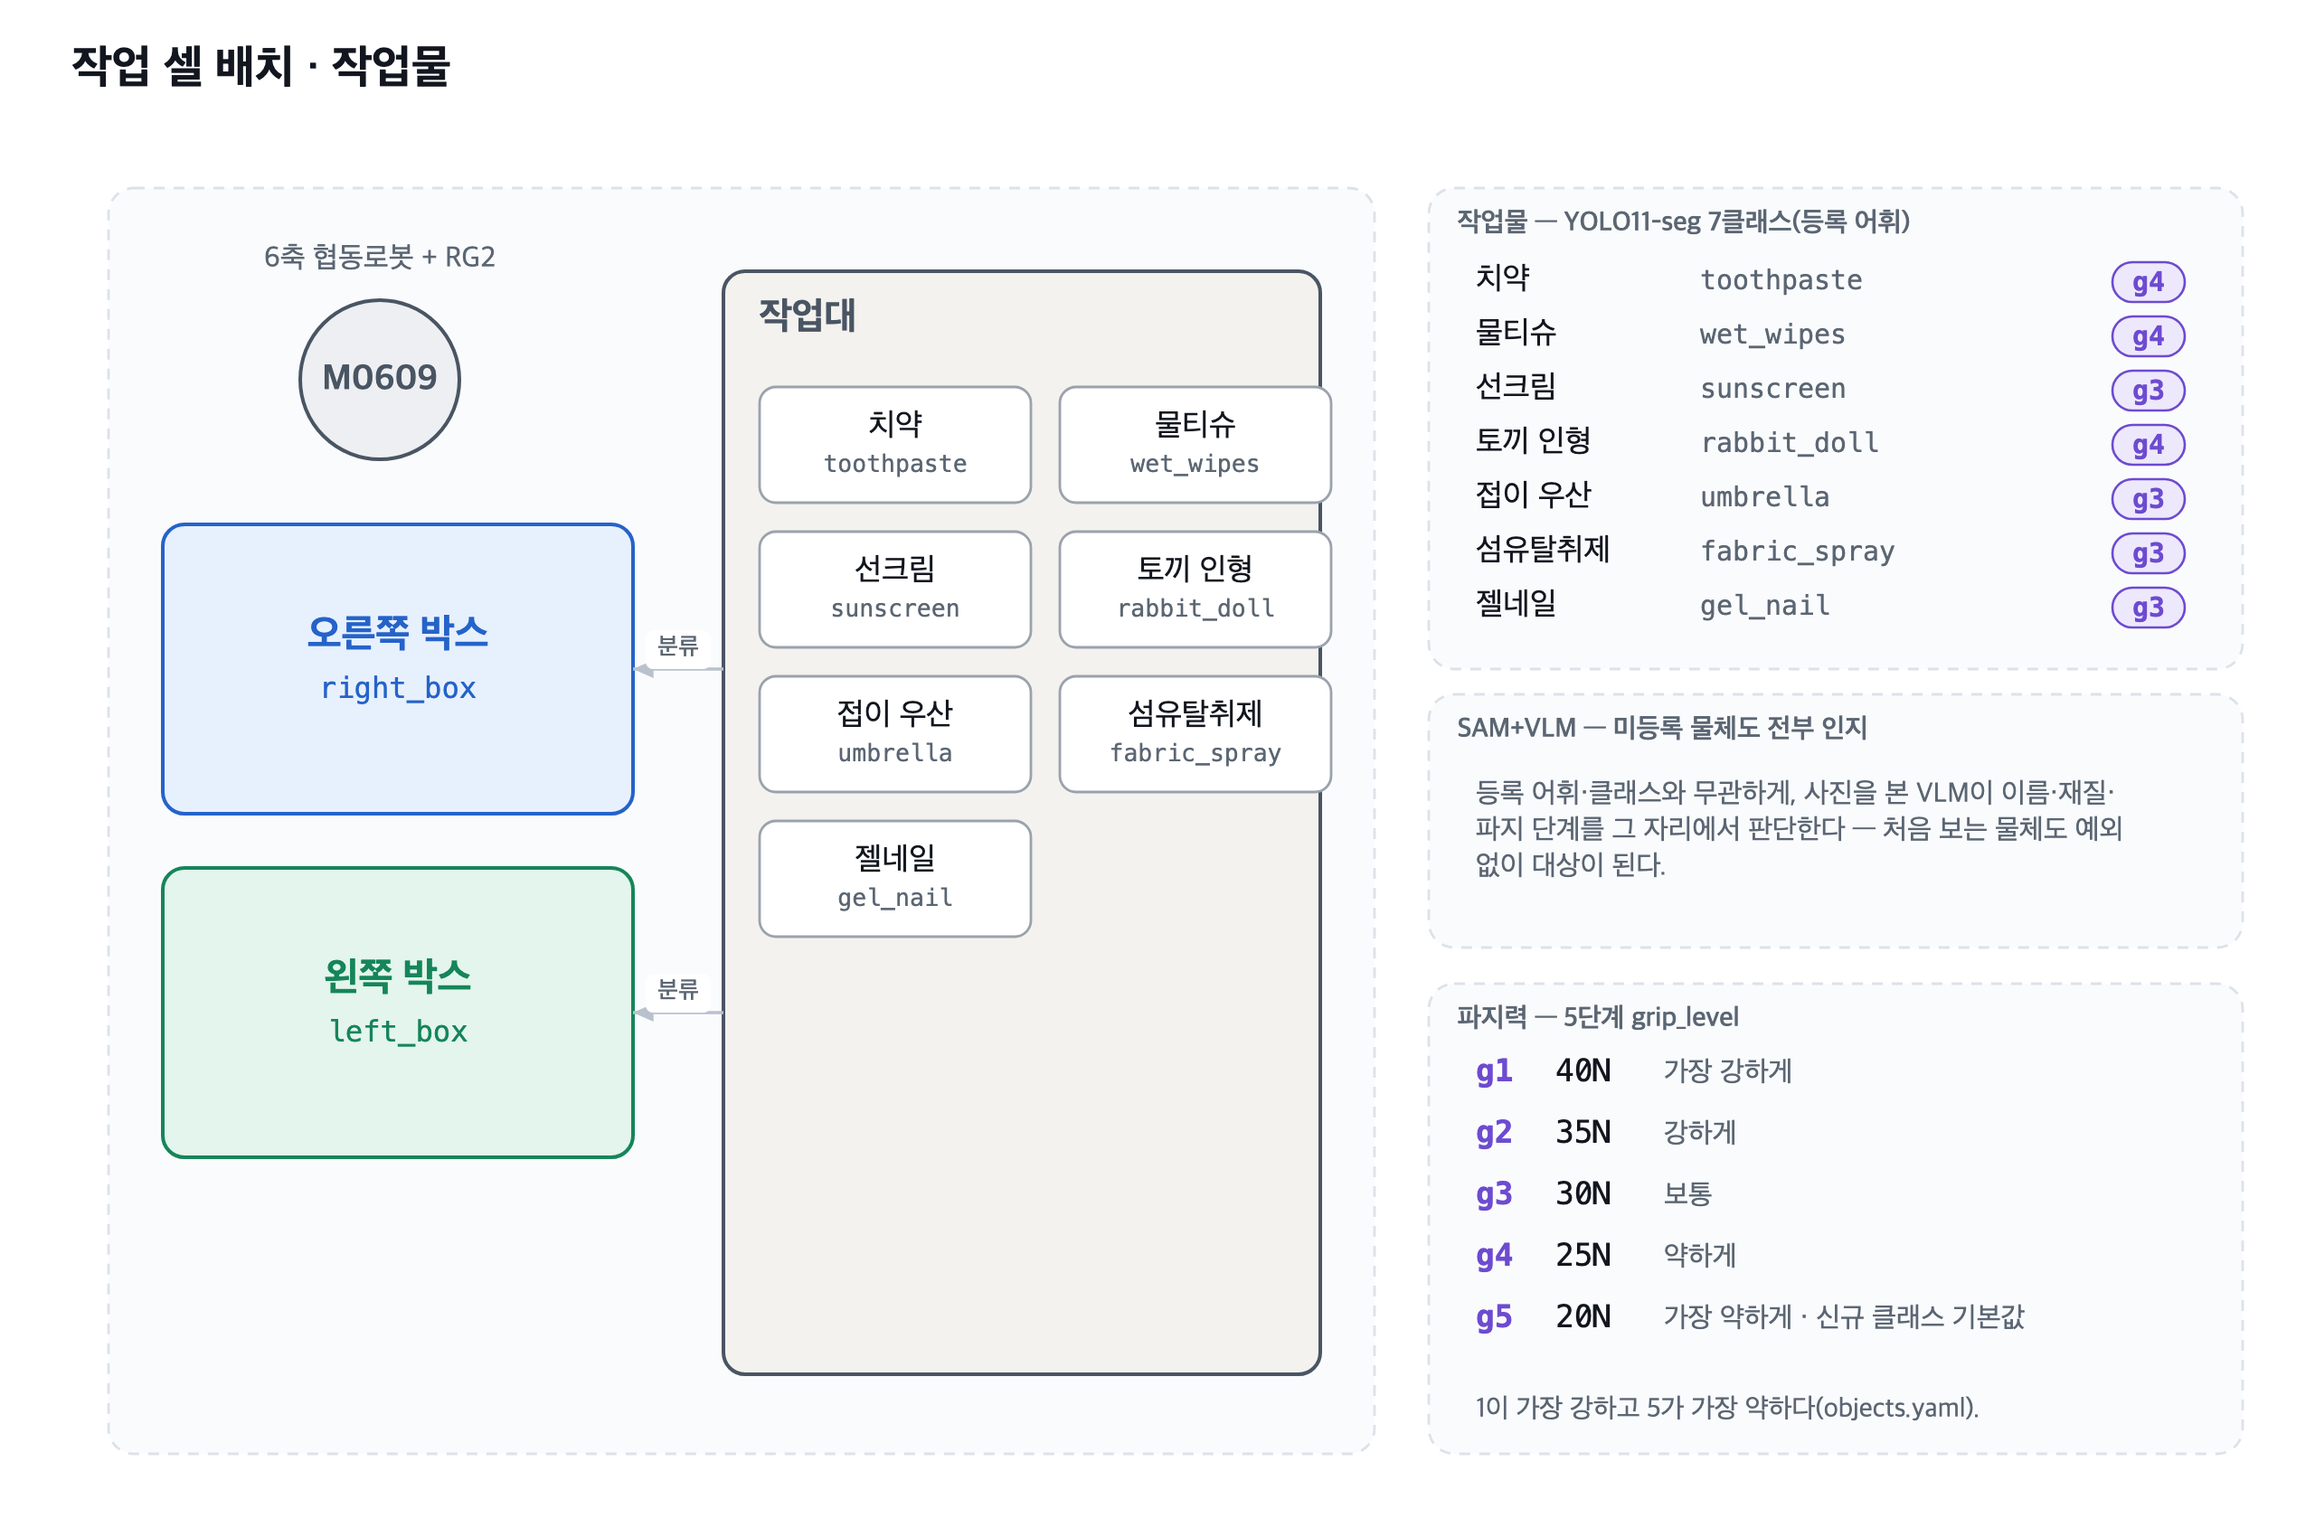
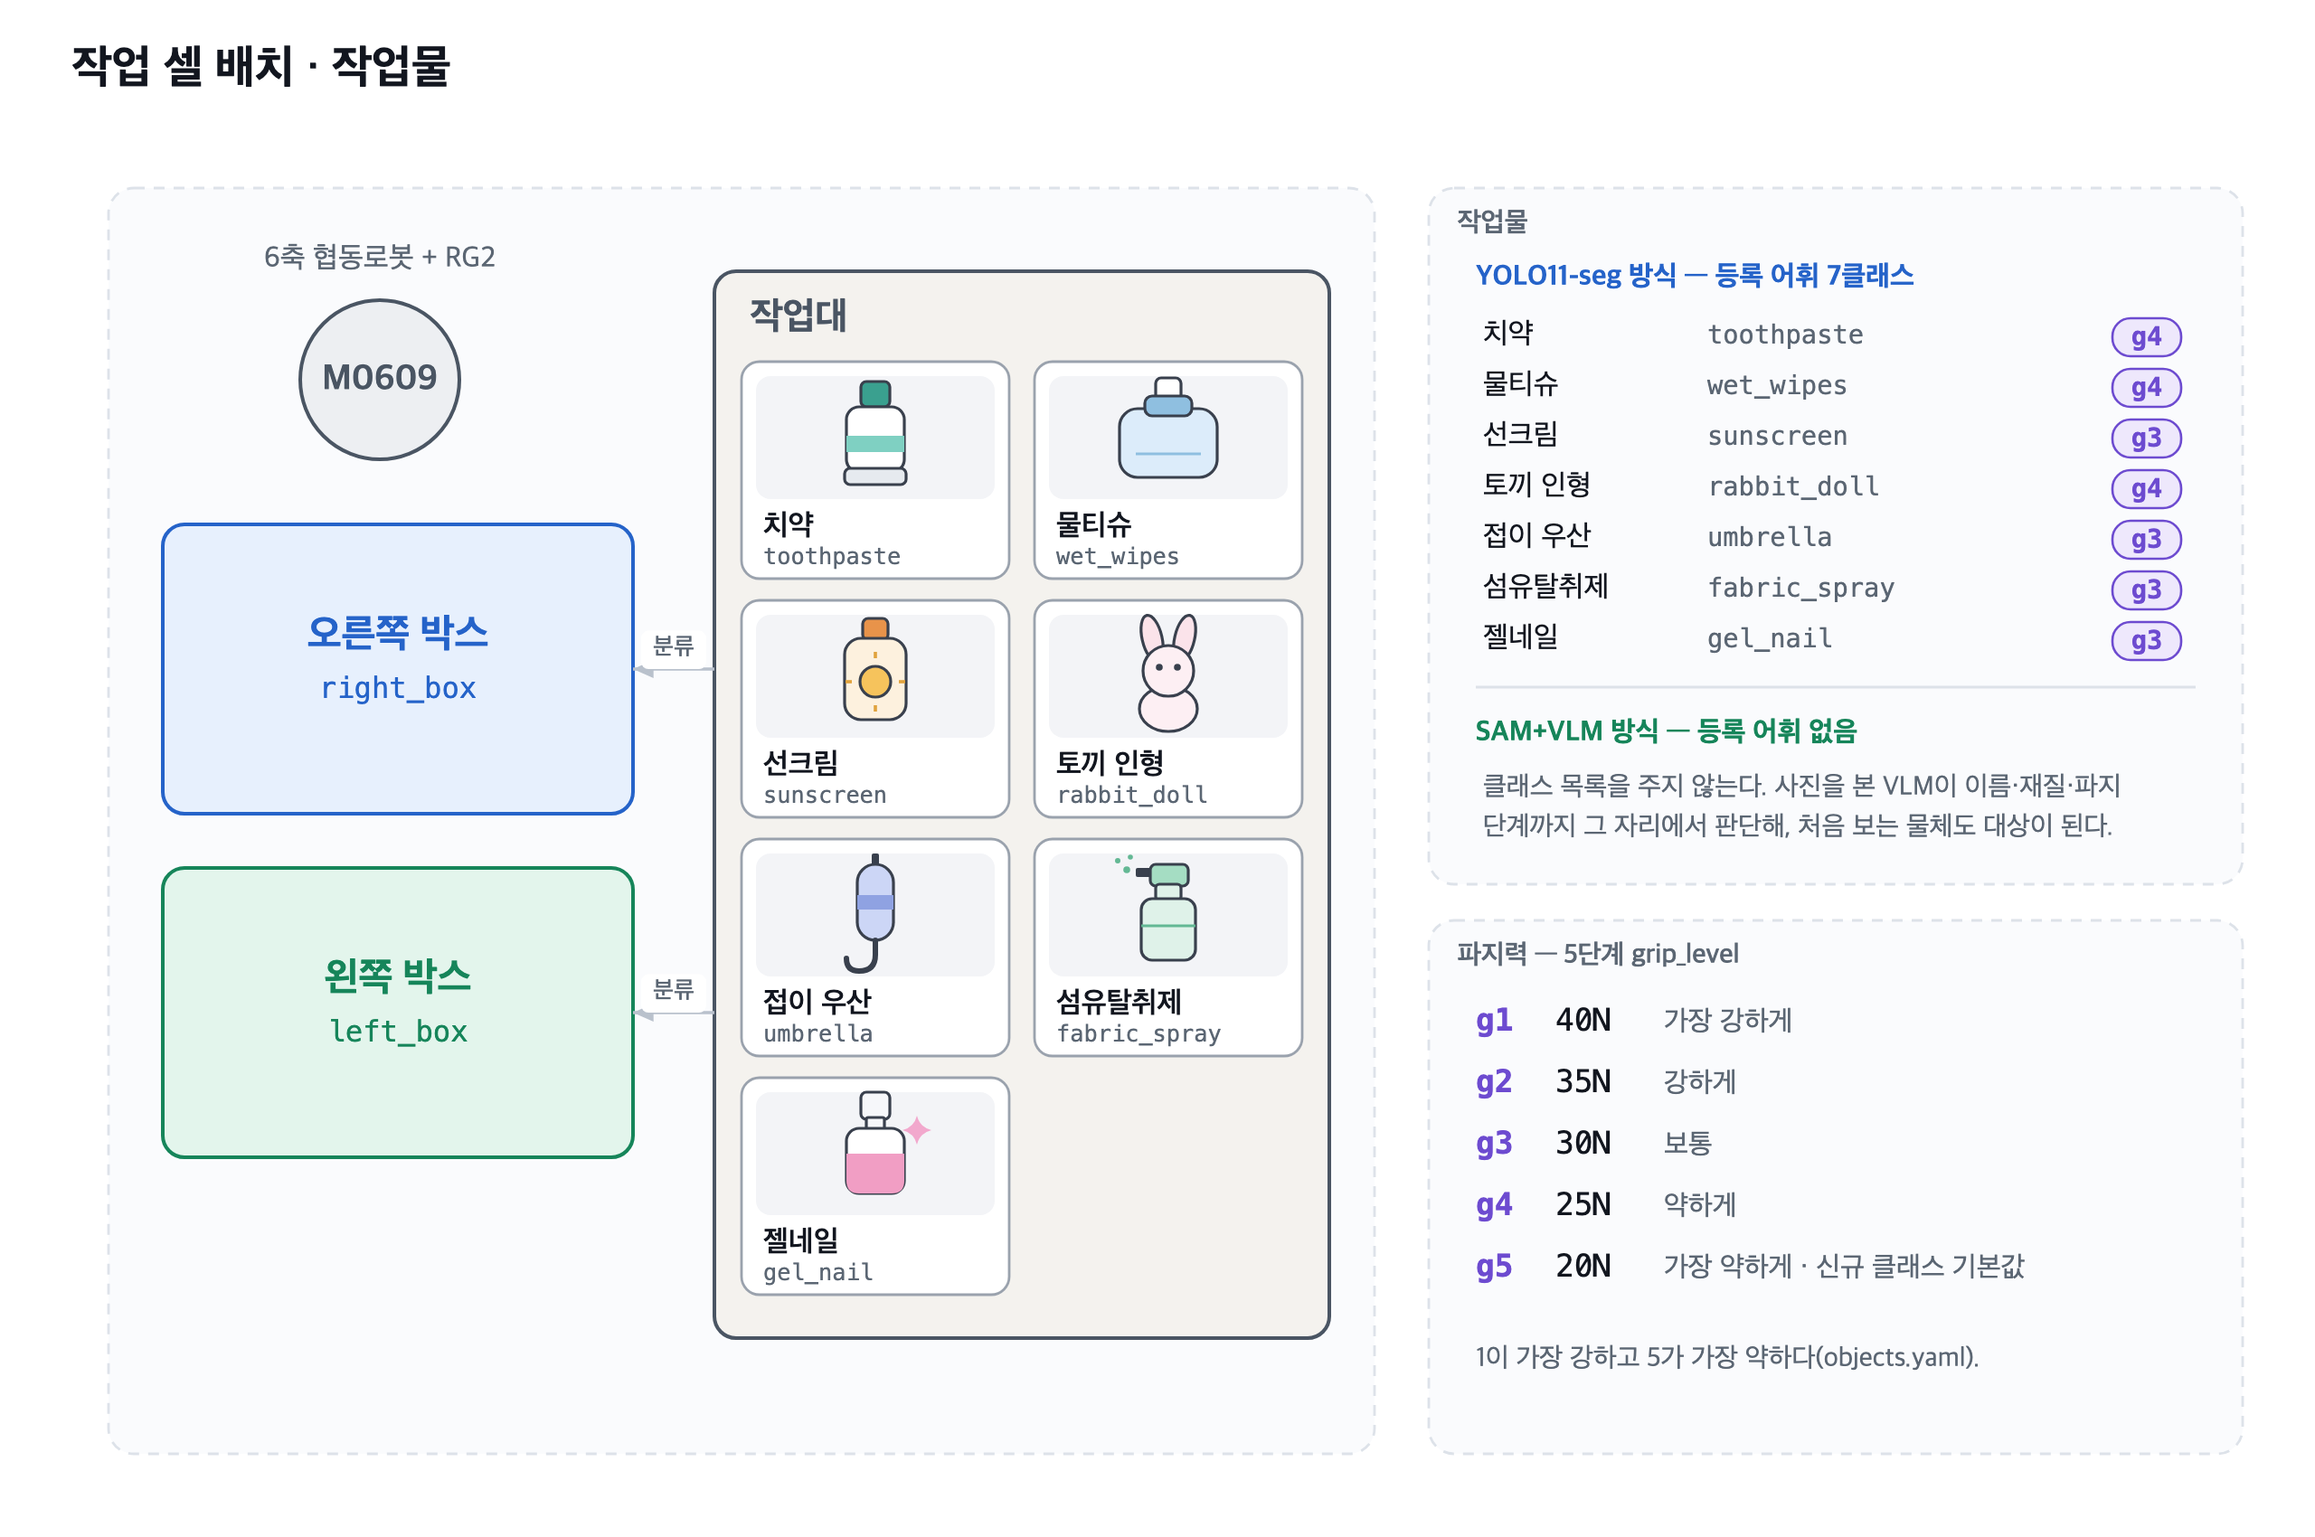
docs: 작업대 물체를 일러스트로 그리고 작업물 패널을 한 상자로 합친다
- 작업 셀 배치: 이름만 적힌 빈 상자로는 작업대에 무엇이 놓여 있는지 안 보여서,
  물체 7종을 알아볼 수 있는 일러스트 카드(썸네일 + 이름)로 바꾼다.
- 작업물 패널을 둘로 나눠 두었던 것을 한 상자로 합치고, 그 안에서 YOLO11-seg 방식
  (등록 어휘 7클래스)과 SAM+VLM 방식(등록 어휘 없음)으로 구분한다.
- 명령 처리 시퀀스: "승인이 필요한 이유" 설명 패널을 뺀다. 실행 승인 단계 자체는
  시퀀스의 실제 단계라 남긴다.
- 그림이 바뀌었으므로 README의 캐시 버전을 v=3으로 올린다.

diff --git a/tools/scripts/make_diagrams.py b/tools/scripts/make_diagrams.py
@@ -325,7 +325,7 @@ def diagram_network() -> Svg:
 # --- 3. 명령 처리 시퀀스 ------------------------------------------------------
 
 def diagram_command_flow() -> Svg:
-    s = Svg(1280, 760)
+    s = Svg(1280, 620)
     title(s, "명령 처리 시퀀스")
 
     y1, y2, h, w = 130, 330, 84, 196
@@ -377,12 +377,6 @@ def diagram_command_flow() -> Svg:
           title_size=12.5)
     s.arrow([(138, y2 + h), (138, 470)], dash="6 4", stroke=DANGER[0])
 
-    s.rect(40, 616, 1200, 118, stroke=FAINT, fill="#fafbfd", r=14, sw=1.4)
-    s.text(64, 652, "승인이 필요한 이유", size=17, fill=INK, weight=700)
-    s.text(64, 684, "SAM+VLM 경로는 등록 어휘 없이 물체 이름과 속성을 스스로 판단한다 — 파지력에 직결되는 grip_level까지.",
-           size=15, fill=MUTED)
-    s.text(64, 712, "그래서 검증기를 지났다는 것만으로 실행하지 않고, 명령 1건당 한 번은 사람이 본다.",
-           size=15, fill=MUTED)
     return s
 
 
@@ -502,6 +496,109 @@ OBJECTS = [
     ("섬유탈취제", "fabric_spray", 3), ("젤네일", "gel_nail", 3),
 ]
 
+# 작업물 일러스트. 이름만 적힌 빈 상자는 "작업대에 무엇이 놓여 있는가"를 그림으로
+# 답하지 못해서, 물체마다 알아볼 수 있을 만큼만 그린다. 좌표는 전부 썸네일 중심
+# (cx, cy) 기준 상대값이고 세로로 ±34 안에 들어온다 — 카드의 썸네일 칸 높이가 68이다.
+
+ART = "#39404d"          # 일러스트 외곽선
+
+
+def _art(s, x, y, w, h, *, fill, r=3, sw=1.6, stroke=ART):
+    s.rect(x, y, w, h, stroke=stroke, fill=fill, r=r, sw=sw)
+
+
+def art_toothpaste(s, cx, cy):
+    _art(s, cx - 8, cy - 31, 16, 14, fill="#3aa08f")
+    _art(s, cx - 16, cy - 17, 32, 36, fill="#ffffff", r=7)
+    s.rect(cx - 16, cy - 1, 32, 9, stroke="none", fill="#7fd0c2", r=0, sw=0)
+    _art(s, cx - 17, cy + 17, 34, 9, fill="#e6eaef")
+
+
+def art_wet_wipes(s, cx, cy):
+    _art(s, cx - 27, cy - 16, 54, 38, fill="#dcecfa", r=10)
+    _art(s, cx - 7, cy - 33, 14, 14, fill="#ffffff")
+    _art(s, cx - 13, cy - 23, 26, 11, fill="#8fbfe0", r=4)
+    s.line(cx - 18, cy + 9, cx + 18, cy + 9, stroke="#8fbfe0", sw=1.6)
+
+
+def art_sunscreen(s, cx, cy):
+    _art(s, cx - 7, cy - 32, 14, 12, fill="#e8934a")
+    _art(s, cx - 17, cy - 21, 34, 45, fill="#fdf1de", r=9)
+    s.add(f'<circle cx="{cx}" cy="{cy + 3}" r="8.5" fill="#f6c35c" stroke="{ART}" '
+          f'stroke-width="1.6"/>')
+    for x1, y1, x2, y2 in ((0, -13, 0, -16.5), (0, 13, 0, 16.5),
+                           (-13, 0, -16.5, 0), (13, 0, 16.5, 0)):
+        s.line(cx + x1, cy + 3 + y1, cx + x2, cy + 3 + y2, stroke="#e0a23c", sw=1.8)
+
+
+def art_rabbit(s, cx, cy):
+    s.add(f'<ellipse cx="{cx}" cy="{cy + 18}" rx="16" ry="12.5" fill="#fdeff3" '
+          f'stroke="{ART}" stroke-width="1.6"/>')
+    for side in (-1, 1):
+        ex = cx + 9 * side
+        s.add(f'<ellipse cx="{ex}" cy="{cy - 21}" rx="5.5" ry="13" fill="#fbe3ea" '
+              f'stroke="{ART}" stroke-width="1.6" '
+              f'transform="rotate({13 * side} {ex} {cy - 21})"/>')
+    s.add(f'<circle cx="{cx}" cy="{cy - 3}" r="14" fill="#fdeff3" stroke="{ART}" '
+          f'stroke-width="1.6"/>')
+    for side in (-1, 1):
+        s.add(f'<circle cx="{cx + 5 * side}" cy="{cy - 5}" r="1.9" fill="{ART}"/>')
+
+
+def art_umbrella(s, cx, cy):
+    s.rect(cx - 2, cy - 34, 4, 8, stroke="none", fill=ART, r=1, sw=0)
+    _art(s, cx - 10, cy - 28, 20, 42, fill="#ccd6f6", r=10)
+    s.rect(cx - 10, cy - 11, 20, 8, stroke="none", fill="#8fa2e2", r=0, sw=0)
+    s.add(f'<path d="M {cx} {cy + 14} L {cx} {cy + 22} Q {cx} {cy + 31} {cx - 9} '
+          f'{cy + 31} Q {cx - 16} {cy + 31} {cx - 16} {cy + 24}" fill="none" '
+          f'stroke="{ART}" stroke-width="3" stroke-linecap="round"/>')
+
+
+def art_fabric_spray(s, cx, cy):
+    for dx, dy, r in ((-23, -25, 1.9), (-28, -30, 1.5), (-21, -32, 1.4)):
+        s.add(f'<circle cx="{cx + dx}" cy="{cy + dy}" r="{r}" fill="#63b894"/>')
+    s.rect(cx - 18, cy - 26, 9, 5, stroke="none", fill=ART, r=1, sw=0)
+    _art(s, cx - 10, cy - 28, 21, 12, fill="#a5ddc3")
+    _art(s, cx - 7, cy - 17, 14, 9, fill="#dff2e9", r=2)
+    _art(s, cx - 15, cy - 9, 30, 34, fill="#dff2e9", r=6)
+    s.line(cx - 15, cy + 6, cx + 15, cy + 6, stroke="#63b894", sw=1.6)
+
+
+def art_gel_nail(s, cx, cy):
+    _art(s, cx - 8, cy - 34, 16, 15, fill="#f6f7fa")
+    _art(s, cx - 5, cy - 20, 10, 7, fill="#f6f7fa", r=1)
+    _art(s, cx - 16, cy - 14, 32, 36, fill="#ffffff", r=7)
+    s.add(f'<path d="M {cx - 16} {cy} L {cx + 16} {cy} L {cx + 16} {cy + 15} '
+          f'Q {cx + 16} {cy + 22} {cx + 9} {cy + 22} L {cx - 9} {cy + 22} '
+          f'Q {cx - 16} {cy + 22} {cx - 16} {cy + 15} Z" fill="#f19ec4"/>')
+    sx, sy = cx + 23, cy - 13
+    s.add(f'<path d="M {sx} {sy - 8} Q {sx + 1.6} {sy - 1.6} {sx + 8} {sy} '
+          f'Q {sx + 1.6} {sy + 1.6} {sx} {sy + 8} Q {sx - 1.6} {sy + 1.6} '
+          f'{sx - 8} {sy} Q {sx - 1.6} {sy - 1.6} {sx} {sy - 8} Z" fill="#f2a8cd"/>')
+
+
+OBJECT_ART = {
+    "toothpaste": art_toothpaste,
+    "wet_wipes": art_wet_wipes,
+    "sunscreen": art_sunscreen,
+    "rabbit_doll": art_rabbit,
+    "umbrella": art_umbrella,
+    "fabric_spray": art_fabric_spray,
+    "gel_nail": art_gel_nail,
+}
+
+CARD_W, CARD_H = 148, 120
+
+
+def object_card(s, x, y, ko, en) -> None:
+    """작업대 위의 물체 한 개 — 썸네일 + 이름."""
+    s.rect(x, y, CARD_W, CARD_H, stroke=NEUTRAL[0], fill="#ffffff", r=10, sw=1.4)
+    s.rect(x + 8, y + 8, CARD_W - 16, 68, stroke="none", fill="#f3f4f7", r=8, sw=0)
+    OBJECT_ART[en](s, x + CARD_W / 2, y + 42)
+    s.text(x + 12, y + 96, ko, size=14, fill=INK, weight=600)
+    s.text(x + 12, y + 112, en, size=11, fill=MUTED, family=MONO)
+
+
 # 파지력 5단계. 단계 정의(단조 감소)는 objects.yaml이 소유한다 — 실제로 control이
 # 거는 힘(skill_params.yaml)은 g4만 25N이 아니라 10N이지만, 그 예외는 그림에 적지 않는다.
 GRIP_LEVELS = [
@@ -546,41 +643,39 @@ def diagram_cell_layout() -> Svg:
     s.text(220, 576, "left_box", size=14, fill=GRASP[0], anchor="middle", family=MONO)
 
     # 작업대 — 오른쪽 열 전체, 위에 물체 여러 개
-    s.rect(400, 150, 330, 610, stroke=HW[0], fill="#f4f2ee", r=12, sw=2)
-    s.text(420, 182, "작업대", size=18, fill=HW[0], weight=700)
-    cols, cw, ch = 2, 150, 64
+    s.rect(395, 150, 340, 590, stroke=HW[0], fill="#f4f2ee", r=12, sw=2)
+    s.text(415, 182, "작업대", size=18, fill=HW[0], weight=700)
     for i, (ko, en, _lvl) in enumerate(OBJECTS):
-        ox = 420 + (i % cols) * (cw + 16)
-        oy = 214 + (i // cols) * (ch + 16)
-        s.rect(ox, oy, cw, ch, stroke=NEUTRAL[0], fill="#ffffff", r=9, sw=1.4)
-        s.text(ox + cw / 2, oy + 27, ko, size=15, fill=INK, anchor="middle")
-        s.text(ox + cw / 2, oy + 47, en, size=11.5, fill=MUTED, anchor="middle",
-               family=MONO)
+        ox = 410 + (i % 2) * (CARD_W + 14)
+        oy = 200 + (i // 2) * (CARD_H + 12)
+        object_card(s, ox, oy, ko, en)
 
     # 집어서 분류한다 — 두 박스가 나란한 열이라 직선 화살표로 충분하다.
-    s.arrow([(400, 370), (350, 370)], sw=1.8, label="분류")
-    s.arrow([(400, 560), (350, 560)], sw=1.8, label="분류")
+    s.arrow([(395, 370), (350, 370)], sw=1.8, label="분류")
+    s.arrow([(395, 560), (350, 560)], sw=1.8, label="분류")
 
-    # 오른쪽 — 작업물과 파지력
-    s.panel(790, 104, 450, 266, "작업물 — YOLO11-seg 7클래스(등록 어휘)")
-    yy = 160
+    # 오른쪽 — 작업물(인지 경로 두 갈래)과 파지력
+    s.panel(790, 104, 450, 385, "작업물")
+    s.text(816, 158, "YOLO11-seg 방식 — 등록 어휘 7클래스", size=13.5,
+           fill=PERCEPTION[0], weight=700)
+    yy = 190
     for ko, en, level in OBJECTS:
-        s.text(816, yy, ko, size=15, fill=INK)
-        s.text(940, yy, en, size=13, fill=MUTED, family=MONO)
-        s.rect(1168, yy - 15, 40, 22, stroke=CONTROL[0], fill=CONTROL[1], r=11, sw=1.3)
-        s.text(1188, yy + 1, f"g{level}", size=13, fill=CONTROL[0], anchor="middle",
+        s.text(820, yy, ko, size=14, fill=INK)
+        s.text(944, yy, en, size=12.5, fill=MUTED, family=MONO)
+        s.rect(1168, yy - 14, 38, 21, stroke=CONTROL[0], fill=CONTROL[1], r=10, sw=1.3)
+        s.text(1187, yy + 1, f"g{level}", size=12.5, fill=CONTROL[0], anchor="middle",
                weight=600, family=MONO)
-        yy += 30
+        yy += 28
+    s.line(816, 380, 1214, 380, stroke=FAINT, sw=1.4)
+    s.text(816, 410, "SAM+VLM 방식 — 등록 어휘 없음", size=13.5, fill=GRASP[0],
+           weight=700)
+    s.text(820, 440, "클래스 목록을 주지 않는다. 사진을 본 VLM이 이름·재질·파지",
+           size=13, fill=MUTED)
+    s.text(820, 462, "단계까지 그 자리에서 판단해, 처음 보는 물체도 대상이 된다.",
+           size=13, fill=MUTED)
 
-    s.panel(790, 384, 450, 140, "SAM+VLM — 미등록 물체도 전부 인지")
-    s.text(816, 444, "등록 어휘·클래스와 무관하게, 사진을 본 VLM이 이름·재질·",
-           size=13.5, fill=MUTED)
-    s.text(816, 464, "파지 단계를 그 자리에서 판단한다 — 처음 보는 물체도 예외",
-           size=13.5, fill=MUTED)
-    s.text(816, 484, "없이 대상이 된다.", size=13.5, fill=MUTED)
-
-    s.panel(790, 544, 450, 260, "파지력 — 5단계 grip_level")
-    yy = 598
+    s.panel(790, 509, 450, 295, "파지력 — 5단계 grip_level")
+    yy = 570
     for tag, force, note in GRIP_LEVELS:
         s.text(816, yy, tag, size=15, fill=CONTROL[0], family=MONO, weight=700)
         s.text(860, yy, force, size=15, fill=INK, family=MONO)

diff --git a/README.md b/README.md
@@ -14,7 +14,7 @@
 
 ## 1. 시스템 설계
 
-![시스템 아키텍처](https://raw.githubusercontent.com/Haeyuni/PiecePickingSystem/main/docs/diagrams/system_architecture.png?v=2)
+![시스템 아키텍처](https://raw.githubusercontent.com/Haeyuni/PiecePickingSystem/main/docs/diagrams/system_architecture.png?v=3)
 
 ### 1.1 통신 인터페이스
 
@@ -35,7 +35,7 @@ HTTP      web      :8000  /api/* · /ws/live
 
 ### 1.2 네트워크 구성
 
-![네트워크 구성](https://raw.githubusercontent.com/Haeyuni/PiecePickingSystem/main/docs/diagrams/network.png?v=2)
+![네트워크 구성](https://raw.githubusercontent.com/Haeyuni/PiecePickingSystem/main/docs/diagrams/network.png?v=3)
 
 웹·planner·ROS 노드·DB가 **로봇 PC 한 대**에서 전부 돈다.
 
@@ -43,11 +43,11 @@ HTTP      web      :8000  /api/* · /ws/live
 
 ### 2.1 명령 처리 시퀀스
 
-![명령 처리 시퀀스](https://raw.githubusercontent.com/Haeyuni/PiecePickingSystem/main/docs/diagrams/command_flow.png?v=2)
+![명령 처리 시퀀스](https://raw.githubusercontent.com/Haeyuni/PiecePickingSystem/main/docs/diagrams/command_flow.png?v=3)
 
 ### 2.2 동작 순서도
 
-![동작 순서도](https://raw.githubusercontent.com/Haeyuni/PiecePickingSystem/main/docs/diagrams/operation_flow.png?v=2)
+![동작 순서도](https://raw.githubusercontent.com/Haeyuni/PiecePickingSystem/main/docs/diagrams/operation_flow.png?v=3)
 
 실패했을 때의 갈래는 두 가지이며 서로 다르게 처리한다.
 
@@ -106,7 +106,7 @@ PiecePickingSystem/          # ROS2 컨테이너 안에서는 /ros2_ws
 
 ### 4.1 로봇 · 제어
 
-![장비 구성](https://raw.githubusercontent.com/Haeyuni/PiecePickingSystem/main/docs/diagrams/hardware_stack.png?v=2)
+![장비 구성](https://raw.githubusercontent.com/Haeyuni/PiecePickingSystem/main/docs/diagrams/hardware_stack.png?v=3)
 
 | 장비 | 모델 | 비고 |
 |---|---|---|
@@ -121,7 +121,7 @@ PiecePickingSystem/          # ROS2 컨테이너 안에서는 /ros2_ws
 
 ### 4.2 작업대 · 작업물
 
-![작업 셀 배치](https://raw.githubusercontent.com/Haeyuni/PiecePickingSystem/main/docs/diagrams/cell_layout.png?v=2)
+![작업 셀 배치](https://raw.githubusercontent.com/Haeyuni/PiecePickingSystem/main/docs/diagrams/cell_layout.png?v=3)
 
 ## 5. 의존성
 
